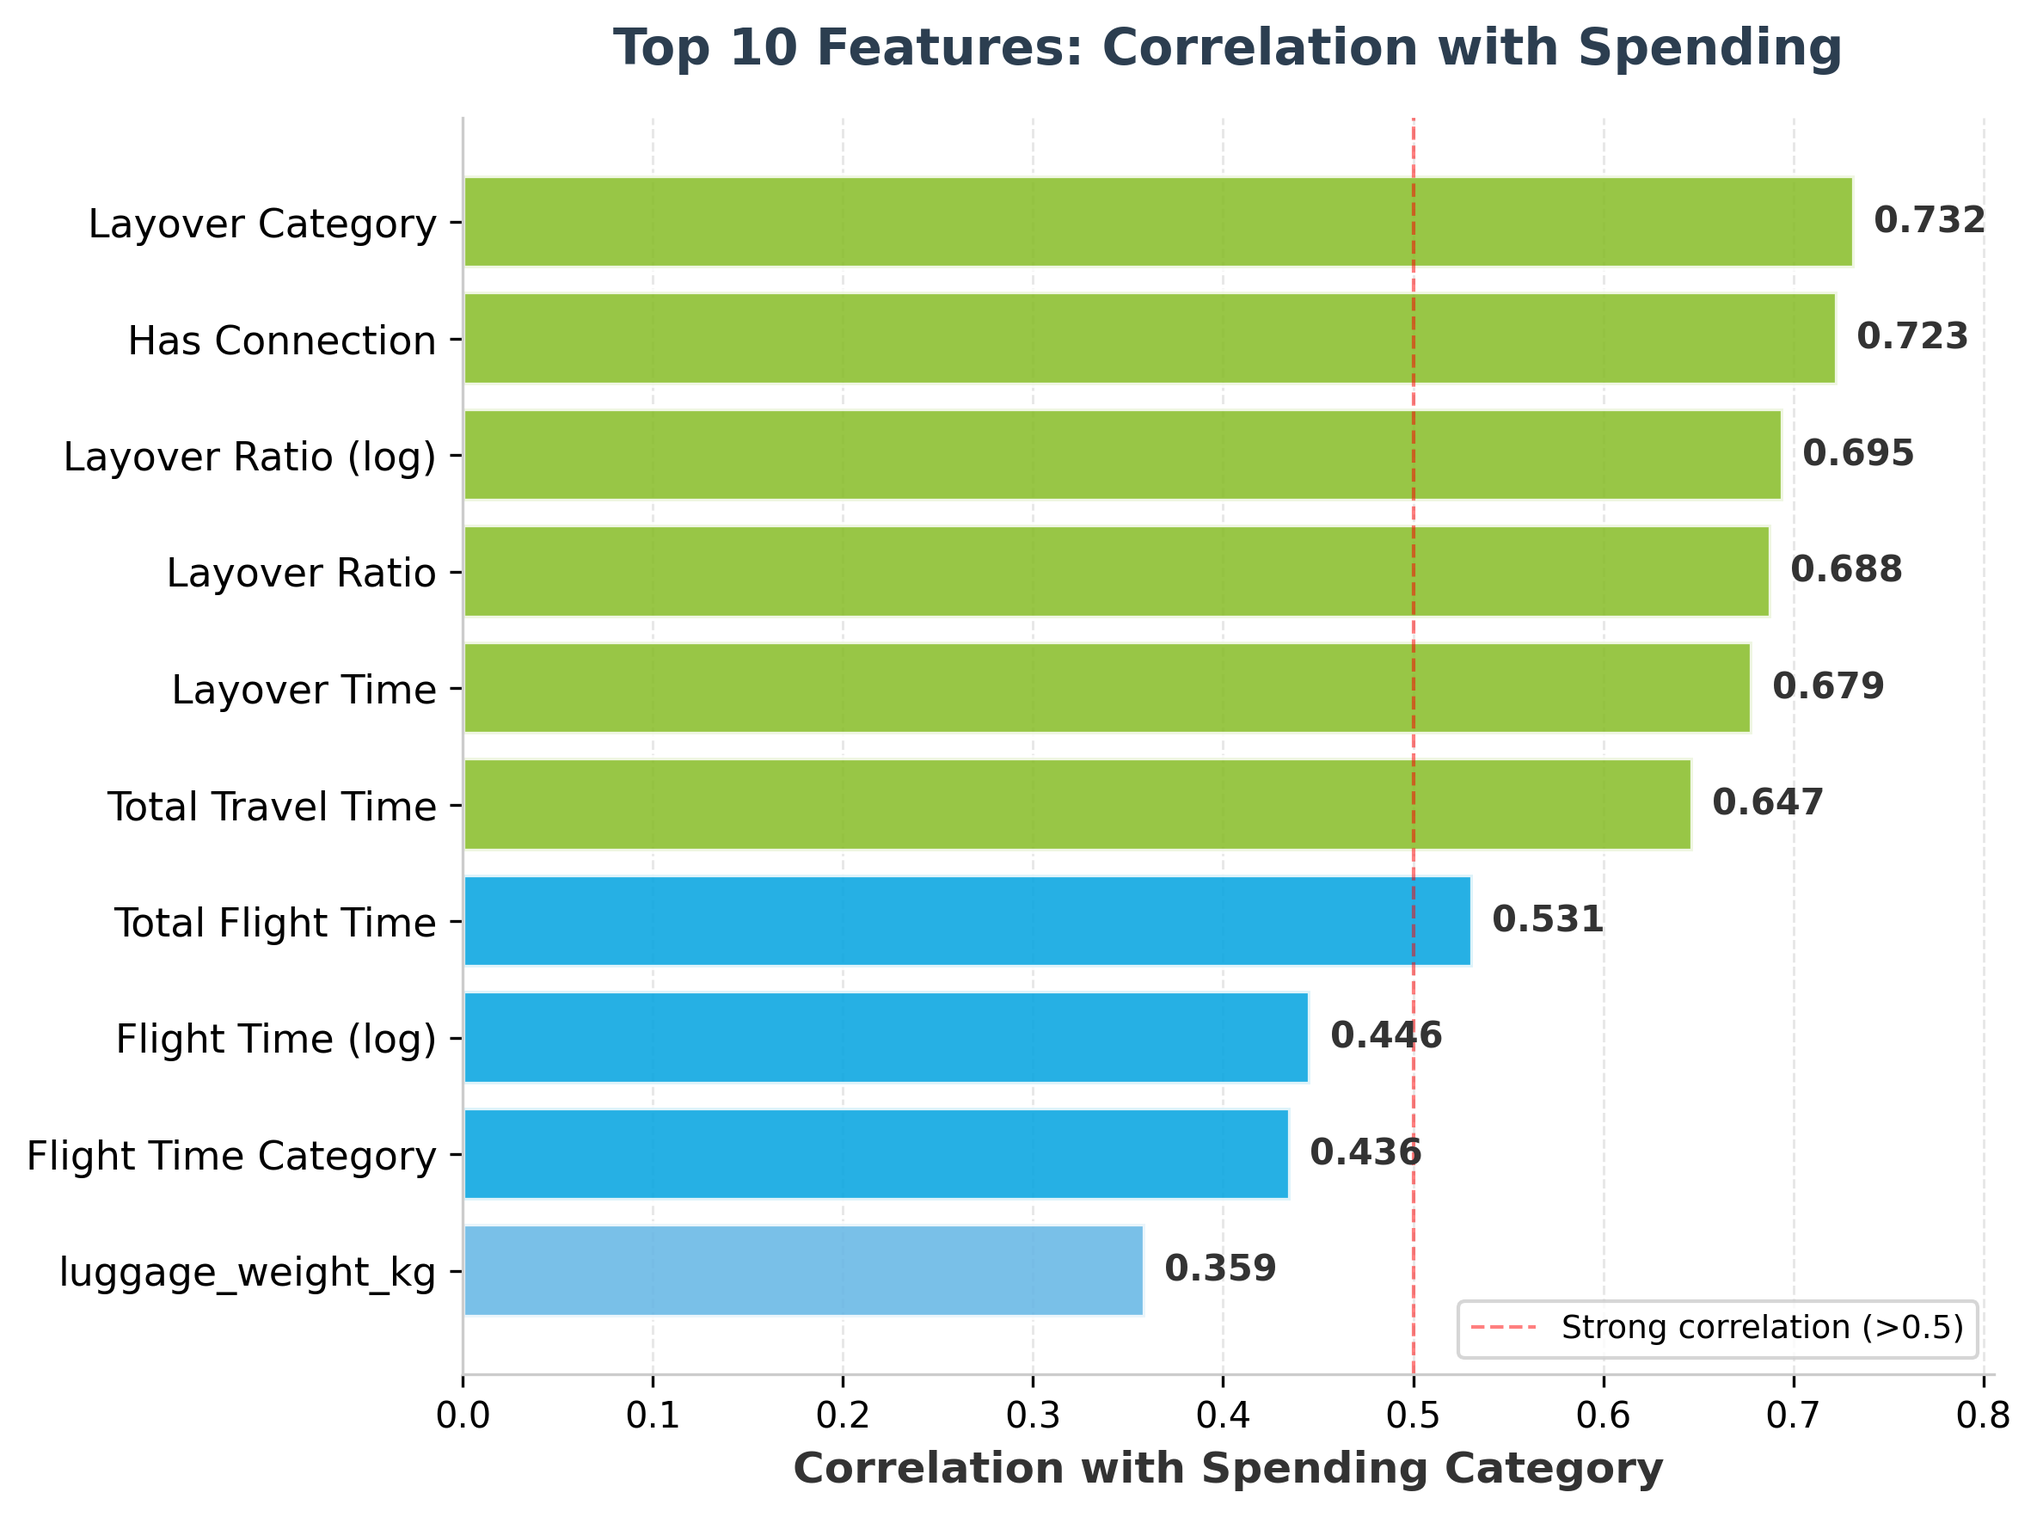
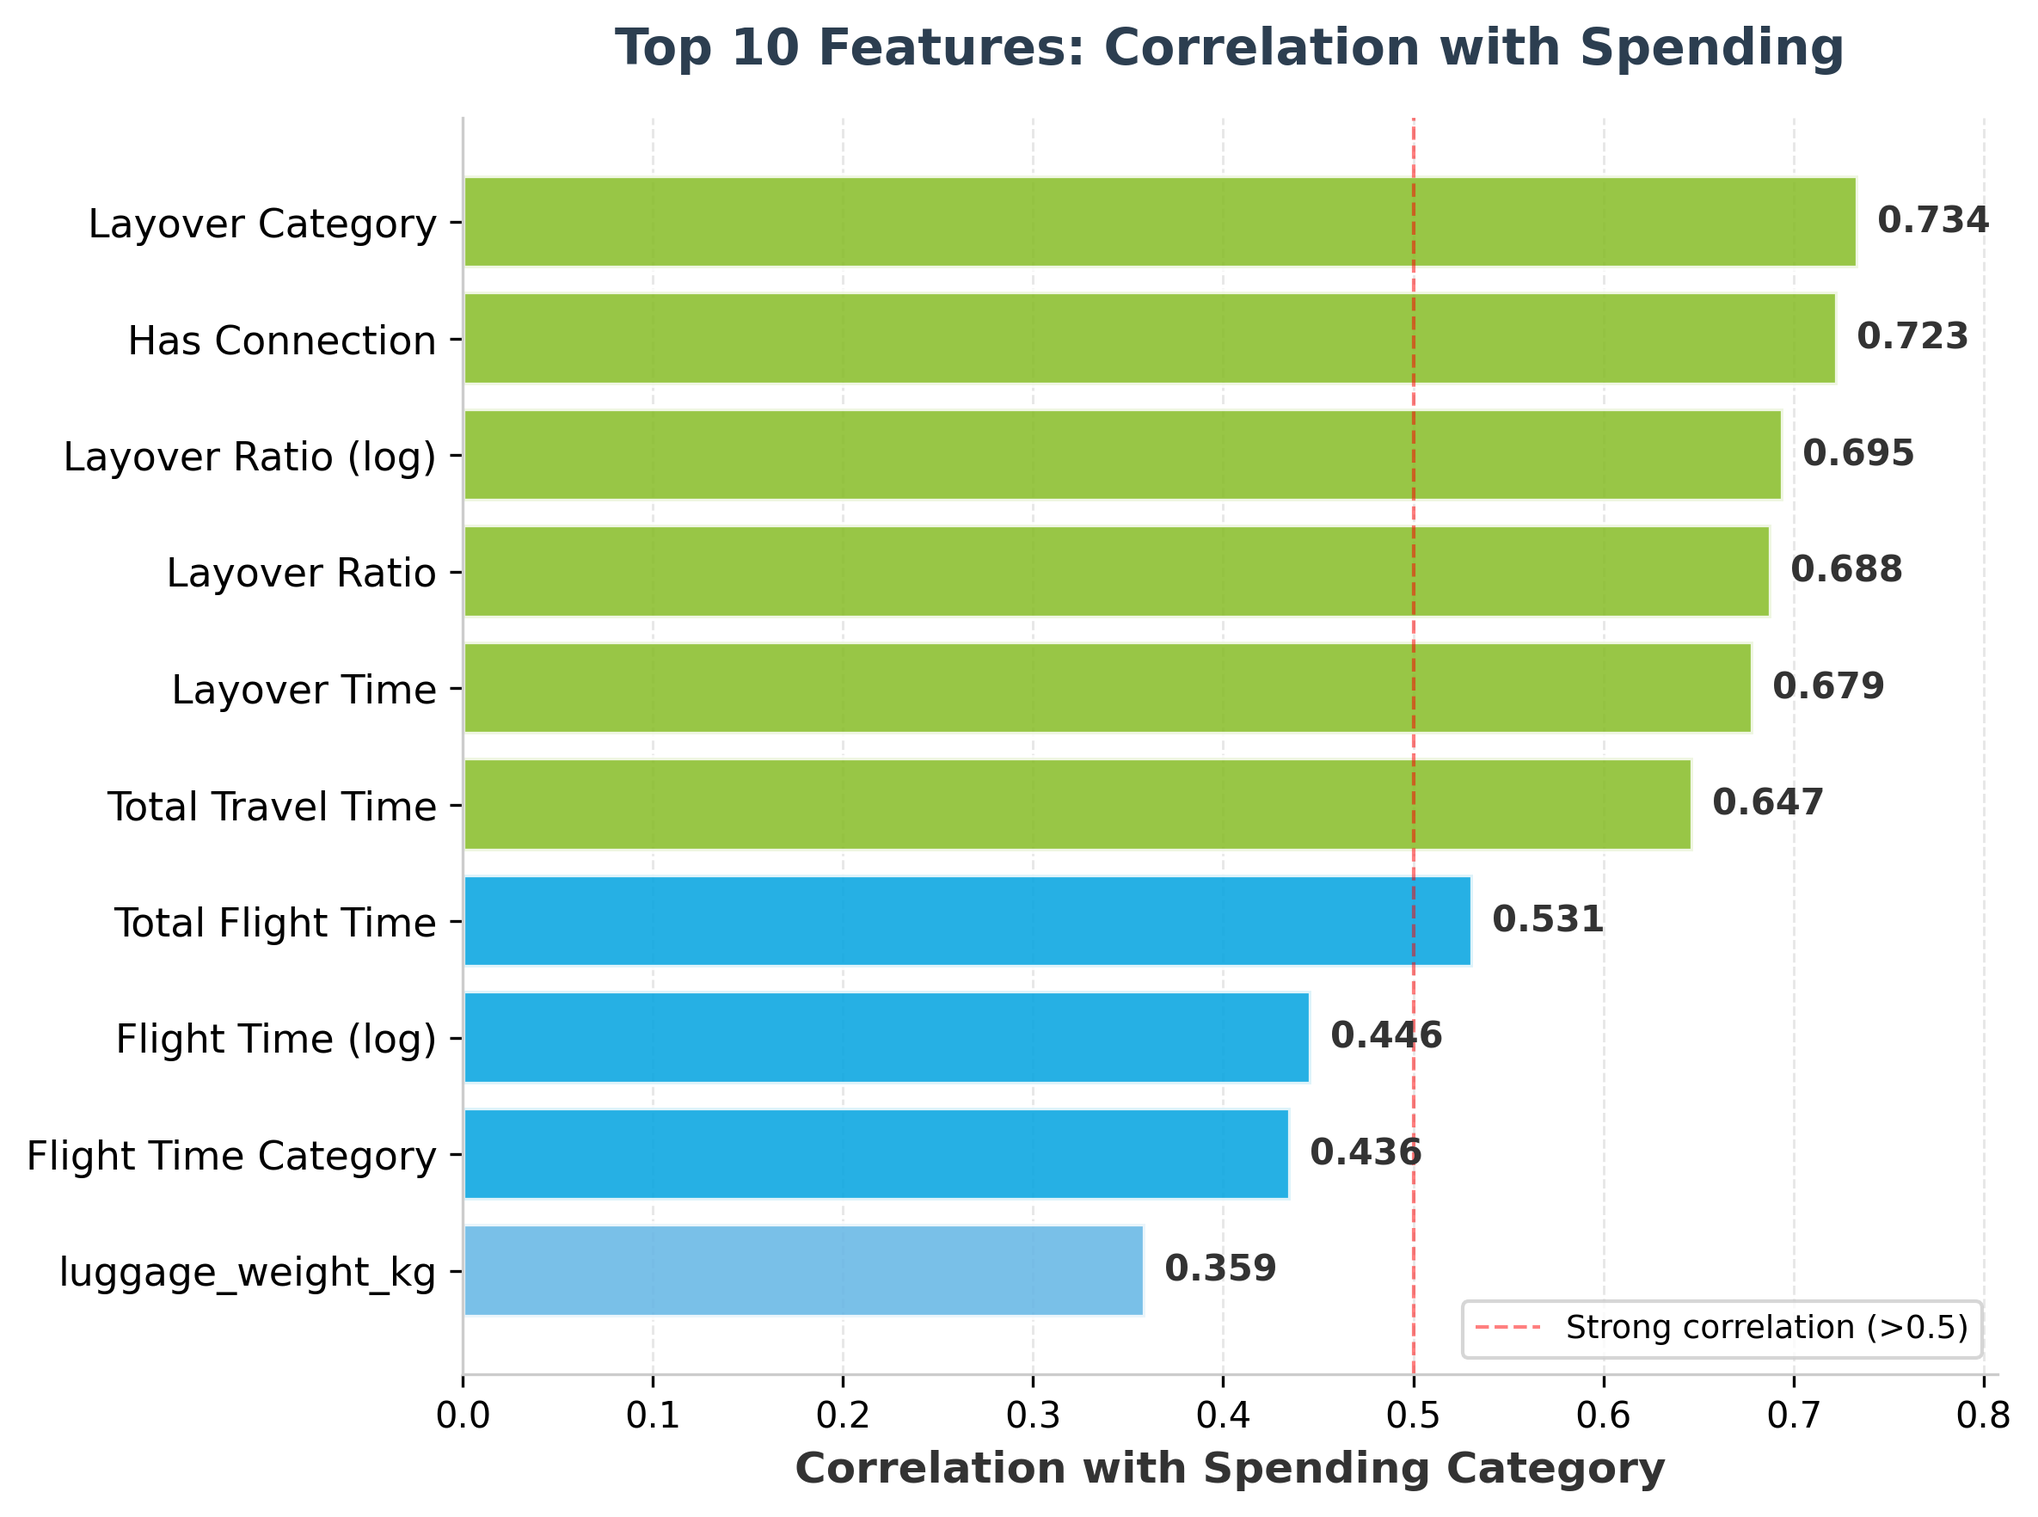
update

diff --git a/1_data_preprocessing.py b/1_data_preprocessing.py
@@ -1,3 +1,11 @@
+"""
+1_data_preprocessing.py
+
+Deloitte Case Study - Data Preprocessing Pipeline
+Handles data loading, quality checks, feature engineering, and EDA
+Updated with intelligent missing value imputation
+"""
+
 import pickle
 import warnings
 from sklearn.preprocessing import LabelEncoder, StandardScaler
@@ -19,6 +27,8 @@ def load_all_data():
 
     df_eu = load_csv_with_info(EU_PASSENGERS_FILE, "EU Passengers")
     df_ww = load_csv_with_info(WW_PASSENGERS_FILE, "WW Passengers")
+
+    # Remove duplicates from WW data
     initial_ww_rows = len(df_ww)
     df_ww = df_ww.drop_duplicates().reset_index(drop=True)
     removed = initial_ww_rows - len(df_ww)
@@ -35,6 +45,149 @@ def load_all_data():
 
 
 # ============================================================================
+# MISSING VALUE HANDLING - INTELLIGENT IMPUTATION
+# ============================================================================
+
+
+def handle_primary_flight_missing_values(df, name="Dataset"):
+    """
+    Intelligently impute missing primary flight codes based on journey patterns
+
+    Discovery: Two distinct patterns in missing data
+
+    Case 1: Missing departure_IATA_1
+    - Pattern: All are direct flights (no connection)
+    - Logic: shopped_at ≠ destination_IATA_1
+    - Solution: departure_IATA_1 = shopped_at
+    - Journey: A(shop) → B
+
+    Case 2: Missing destination_IATA_1
+    - Pattern: All have connection flights (destination_IATA_2 exists)
+    - Logic: shopped_at ≠ departure_IATA_1 AND shopped_at ≠ destination_IATA_2
+    - Solution: destination_IATA_1 = shopped_at (layover airport)
+    - Journey: A → B(shop/layover) → C
+
+    Case 3: Missing departure_IATA_2
+    - Pattern: Connection flights where layover wasn't recorded
+    - Logic: departure_IATA_2 = destination_IATA_1 (layover continuity)
+    - Solution: Second leg departs from where first leg arrived
+    """
+    print_subsection_header("Handling Primary Flight Missing Values")
+
+    initial_missing_dep = df["departure_IATA_1"].isnull().sum()
+    initial_missing_dest = df["destination_IATA_1"].isnull().sum()
+
+    # ========================================================================
+    # CASE 1: Missing departure_IATA_1
+    # Pattern: Direct flights where passenger shopped at departure airport
+    # ========================================================================
+    missing_dep_mask = df["departure_IATA_1"].isnull()
+    if missing_dep_mask.sum() > 0:
+        print(f"\n[Case 1] Missing departure_IATA_1: {missing_dep_mask.sum():,} rows")
+
+        # Verify pattern
+        case1_data = df[missing_dep_mask]
+        has_connection = case1_data["destination_IATA_2"].notna().sum()
+        all_direct = has_connection == 0
+        has_dest1 = case1_data["destination_IATA_1"].notna().all()
+
+        print(f"  Verification:")
+        print(f"    ✓ All direct flights (no destination_IATA_2): {all_direct}")
+        print(f"    ✓ All have destination_IATA_1: {has_dest1}")
+
+        # Imputation logic: departure = shopped_at
+        # Journey: shopped_at(departure) → destination_IATA_1
+        df.loc[missing_dep_mask, "departure_IATA_1"] = df.loc[
+            missing_dep_mask, "shopped_at"
+        ]
+
+        print(f"  ✓ Imputed: departure_IATA_1 = shopped_at")
+        print(f"  Logic: Direct flights departing from survey airport")
+
+    # ========================================================================
+    # CASE 2: Missing destination_IATA_1
+    # Pattern: Connection flights where passenger shopped at layover airport
+    # ========================================================================
+    missing_dest_mask = df["destination_IATA_1"].isnull()
+    if missing_dest_mask.sum() > 0:
+        print(
+            f"\n[Case 2] Missing destination_IATA_1: {missing_dest_mask.sum():,} rows"
+        )
+
+        # Verify pattern
+        case2_data = df[missing_dest_mask]
+        all_have_final_dest = case2_data["destination_IATA_2"].notna().all()
+        has_dep1 = case2_data["departure_IATA_1"].notna().all()
+
+        print(f"  Verification:")
+        print(
+            f"    ✓ All have connection flights (destination_IATA_2): {all_have_final_dest}"
+        )
+        print(f"    ✓ All have departure_IATA_1: {has_dep1}")
+
+        # Imputation logic: destination_IATA_1 = shopped_at (layover airport)
+        # Journey: departure_IATA_1 → shopped_at(layover) → destination_IATA_2
+        df.loc[missing_dest_mask, "destination_IATA_1"] = df.loc[
+            missing_dest_mask, "shopped_at"
+        ]
+
+        print(f"  ✓ Imputed: destination_IATA_1 = shopped_at")
+        print(f"  Logic: Connection flights with layover at survey airport")
+
+    # ========================================================================
+    # CASE 3: Missing departure_IATA_2
+    # Pattern: Connection flights where layover airport wasn't recorded
+    # Discovery: These are likely the same passengers from Case 2!
+    # ========================================================================
+    missing_dep2_mask = (
+        df["departure_IATA_2"].isnull() & df["destination_IATA_2"].notna()
+    )
+    if missing_dep2_mask.sum() > 0:
+        print(f"\n[Case 3] Missing departure_IATA_2: {missing_dep2_mask.sum():,} rows")
+
+        # Verify pattern
+        case3_data = df[missing_dep2_mask]
+        has_flight2 = case3_data["flight_number_2"].notna().sum()
+        has_dest1 = case3_data["destination_IATA_1"].notna().all()
+
+        print(f"  Verification:")
+        print(f"    ✓ All have flight_number_2: {has_flight2 == len(case3_data)}")
+        print(f"    ✓ All have destination_IATA_1: {has_dest1}")
+
+        # Imputation logic: departure_IATA_2 = destination_IATA_1
+        # Second leg departs from where first leg arrived (layover continuity)
+        df.loc[missing_dep2_mask, "departure_IATA_2"] = df.loc[
+            missing_dep2_mask, "destination_IATA_1"
+        ]
+
+        print(f"  ✓ Imputed: departure_IATA_2 = destination_IATA_1")
+        print(
+            f"  Logic: Second flight departs from first flight's destination (layover)"
+        )
+
+    # ========================================================================
+    # SUMMARY
+    # ========================================================================
+    total_rows_imputed = initial_missing_dep + initial_missing_dest
+
+    print(f"\n✅ Imputation Summary:")
+    print(f"  Total rows with imputed values: {total_rows_imputed:,}")
+    print(f"    - Case 1 (departure_IATA_1):   {initial_missing_dep:,} rows")
+    print(f"    - Case 2 (destination_IATA_1): {initial_missing_dest:,} rows")
+    print(
+        f"    - Case 3 (departure_IATA_2):   {missing_dep2_mask.sum():,} rows (same as Case 2)"
+    )
+
+    if (
+        df["departure_IATA_1"].isnull().sum() == 0
+        and df["destination_IATA_1"].isnull().sum() == 0
+    ):
+        print(f"\n🎯 Success! All primary flight codes imputed!")
+
+    return df
+
+
+# ============================================================================
 # DATA QUALITY CHECKS
 # ============================================================================
 
@@ -43,8 +196,13 @@ def perform_data_quality_checks(df, name="Dataset"):
     """Comprehensive data quality assessment"""
     print_section_header(f"DATA QUALITY - {name}")
 
-    check_missing_values(df, name)
     check_duplicates(df, name)
+
+    # Intelligent handling of primary flight missing values
+    df = handle_primary_flight_missing_values(df, name)
+
+    # Show missing values AFTER imputation
+    check_missing_values(df, name)
 
     return df
 
@@ -85,7 +243,7 @@ def handle_outliers(df, method="cap", percentile=(1, 99)):
 
 
 # ============================================================================
-# FEATURE ENGINEERING
+# FEATURE ENGINEERING - BASIC FEATURES
 # ============================================================================
 
 
@@ -117,51 +275,51 @@ def engineer_basic_features(df):
     return df
 
 
+# ============================================================================
+# FEATURE ENGINEERING - ADVANCED FEATURES
+# ============================================================================
+
+
 def engineer_advanced_features(df):
-    """Create advanced derived features"""
+    """Create advanced engineered features"""
     print_subsection_header("Advanced Feature Engineering")
 
     df = df.copy()
 
-    # 1. Long-haul flight indicator
+    # 1. Long-haul indicator (>6 hours)
     df["is_long_haul"] = (df["total_flighttime"] > 360).astype(int)
     print("  ✓ Created: is_long_haul")
 
-    # 2. Layover ratio (safer calculation with epsilon)
-    df["layover_ratio"] = df["layover_time"] / (df["total_traveltime"] + 1)
+    # 2. Layover ratio and log
+    df["layover_ratio"] = np.where(
+        df["total_traveltime"] > 0,
+        df["layover_time"] / df["total_traveltime"],
+        0,
+    )
     df["layover_ratio_log"] = np.log1p(df["layover_ratio"])
     print("  ✓ Created: layover_ratio, layover_ratio_log")
 
-    # 3. Layover category (ordinal)
+    # 3. Layover categories
     df["layover_category"] = pd.cut(
         df["layover_time"],
-        bins=LAYOVER_BINS,
-        labels=range(len(LAYOVER_LABELS)),
+        bins=[-np.inf, 0, 60, 180, np.inf],
+        labels=[0, 1, 2, 3],
         include_lowest=True,
     )
-    print("  ✓ Created: layover_category (ordinal)")
+    df["layover_category"] = df["layover_category"].astype("Int64")
+    print("  ✓ Created: layover_category")
 
-    # Business travelers with long flights spend more
+    # 4. Interaction features
     df["business_longhaul"] = df["is_business"] * df["is_long_haul"]
-
-    # Age-business interaction (older business travelers spend more)
     df["age_business"] = df["age"] * df["is_business"]
-
-    # Family travel with luggage (families with heavy luggage shop more)
     df["family_luggage"] = df["has_family"] * df["luggage_weight_kg"]
-
-    # Layover shopping opportunity (long layovers = more shopping time)
-    df["layover_shopping_time"] = df["layover_time"] * (df["layover_time"] > 60).astype(
-        int
+    df["layover_shopping_time"] = df["layover_time"] * df["has_connection"]
+    df["male_business"] = df["is_male"] * df["is_business"]
+    print(
+        "  ✓ Created: business_longhaul, age_business, family_luggage, layover_shopping_time, male_business"
     )
 
-    # Gender-business interaction
-    df["male_business"] = df["is_male"] * df["is_business"]
-
-    print("  ✓ Created: business_longhaul, age_business, family_luggage")
-    print("  ✓ Created: layover_shopping_time, male_business")
-
-    # 5. Flight time bins (categorical spending patterns)
+    # 5. Flight time categories
     df["flight_time_category"] = pd.cut(
         df["total_flighttime"],
         bins=[-np.inf, 180, 360, 600, np.inf],
@@ -171,7 +329,7 @@ def engineer_advanced_features(df):
     df["flight_time_category"] = df["flight_time_category"].astype("Int64")
     print("  ✓ Created: flight_time_category")
 
-    # 6. Age groups (spending patterns vary by age)
+    # 6. Age groups
     df["age_group"] = pd.cut(
         df["age"],
         bins=[0, 25, 35, 50, 65, 100],
@@ -180,13 +338,18 @@ def engineer_advanced_features(df):
     )
     print("  ✓ Created: age_group")
 
-    # 7. Polynomial features for key numerical variables
+    # 7. Polynomial features
     df["age_squared"] = df["age"] ** 2
     df["luggage_squared"] = df["luggage_weight_kg"] ** 2
     df["flighttime_log"] = np.log1p(df["total_flighttime"])
     print("  ✓ Created: age_squared, luggage_squared, flighttime_log")
 
     return df
+
+
+# ============================================================================
+# CATEGORICAL ENCODING
+# ============================================================================
 
 
 def encode_categorical_features(df_eu, df_ww, df_airports):
@@ -270,7 +433,6 @@ def complete_feature_engineering(df_eu, df_ww, df_airports):
     print("\n[3/3] Categorical Encoding")
     df_eu, df_ww, encoder = encode_categorical_features(df_eu, df_ww, df_airports)
 
-    # REMOVED: scaling (will be done in pipeline)
     print(f"\n✓ Feature engineering complete (scaling will be done in model pipeline)")
     print(f"  EU: {len(df_eu.columns)} columns")
     print(f"  WW: {len(df_ww.columns)} columns")
@@ -287,11 +449,11 @@ def perform_eda(df_eu):
     """Perform exploratory data analysis"""
     print_section_header("EXPLORATORY DATA ANALYSIS")
 
-    # 1. Target distribution - spending categories
+    # 1. Target distribution
     print_subsection_header("Target Distribution")
     print_category_distribution(df_eu, "amount_spent_cat", normalize=True)
 
-    # 2. Some spending patterns for binary features
+    # 2. Spending patterns by key groups
     print_subsection_header("Spending by Key Groups")
 
     for group in [
@@ -377,7 +539,7 @@ def main():
     print("\n[1/5] Loading data...")
     df_eu, df_ww, df_airports, df_lease = load_all_data()
 
-    # 2. Data quality checks
+    # 2. Data quality checks (includes smart missing value imputation)
     print("\n[2/5] Data quality checks...")
     df_eu = perform_data_quality_checks(df_eu, "EU Passengers")
     df_ww = perform_data_quality_checks(df_ww, "WW Passengers")

diff --git a/realistic_profit_calculator.py b/realistic_profit_calculator.py
@@ -1,14 +1,9 @@
-"""
-Realistic Profit Calculator with Country-Specific Economic Factors
-Considers: staff costs, import duties, tax rates, and operational expenses
-"""
-
 import pandas as pd
-import numpy as np
-from config import CATEGORY_MIDPOINTS, GROSS_MARGIN, MONTHS_PER_YEAR
+from config import GROSS_MARGIN, MONTHS_PER_YEAR
 
 # ============================================================================
 # COUNTRY-SPECIFIC ECONOMIC DATA (2019 figures)
+# All data is sourced from OECD 2019 figures and WTO databases to match our reference date of December 31, 2019.
 # ============================================================================
 
 COUNTRY_DATA = {
@@ -122,7 +117,7 @@ def calculate_staff_costs(store_sqm, avg_monthly_wage_eur):
     Calculate monthly staff costs based on store size and local wages
 
     Assumptions:
-    - 1 FTE per 40 sqm of store space
+    - 1 FTE per 40 sqm of store space (industry standards)
     - Add 30% for benefits, training, uniforms
     """
     num_staff = max(2, store_sqm / 40)  # Minimum 2 staff
@@ -237,6 +232,7 @@ def calculate_realistic_profit(
     # 8. PROFIT MARGIN
     profit_margin = (net_profit / annual_revenue * 100) if annual_revenue > 0 else 0
 
+    # Return a comprehensive dictionary with 20 + metrics that provide complete financial transparency.
     return {
         # Revenue
         "annual_revenue": annual_revenue,
@@ -307,7 +303,7 @@ def calculate_profits_for_all_airports(revenue_by_airport, lease_data):
 
         profit_breakdown["airport"] = airport
 
-        # ADD THESE LINES - Preserve passenger_count and avg_confidence from revenue_by_airport
+        # Preserve passenger_count and avg_confidence from revenue_by_airport
         profit_breakdown["passenger_count"] = revenue_by_airport.loc[
             airport, "passenger_count"
         ]

diff --git a/realistic_profit_walkthrough.md b/realistic_profit_walkthrough.md
@@ -61,8 +61,9 @@ REVENUE (from ML predictions)
 
 - **Airport:** KUL (Kuala Lumpur International Airport, Malaysia)
 - **Annual Revenue:** €748,195 (from ML predictions)
-- **Store Size:** 47 sqm (from lease terms)
-- **Monthly Lease:** €2,261 (from lease terms)
+- **Store Size:** 119 sqm (from lease terms)
+- **Price per sqm:** €19/month
+- **Monthly Lease:** €2,261 (119 sqm × €19)
 - **Country Data:**
   - Average Monthly Wage: €900
   - Import Duty Rate: 20% (standard)
